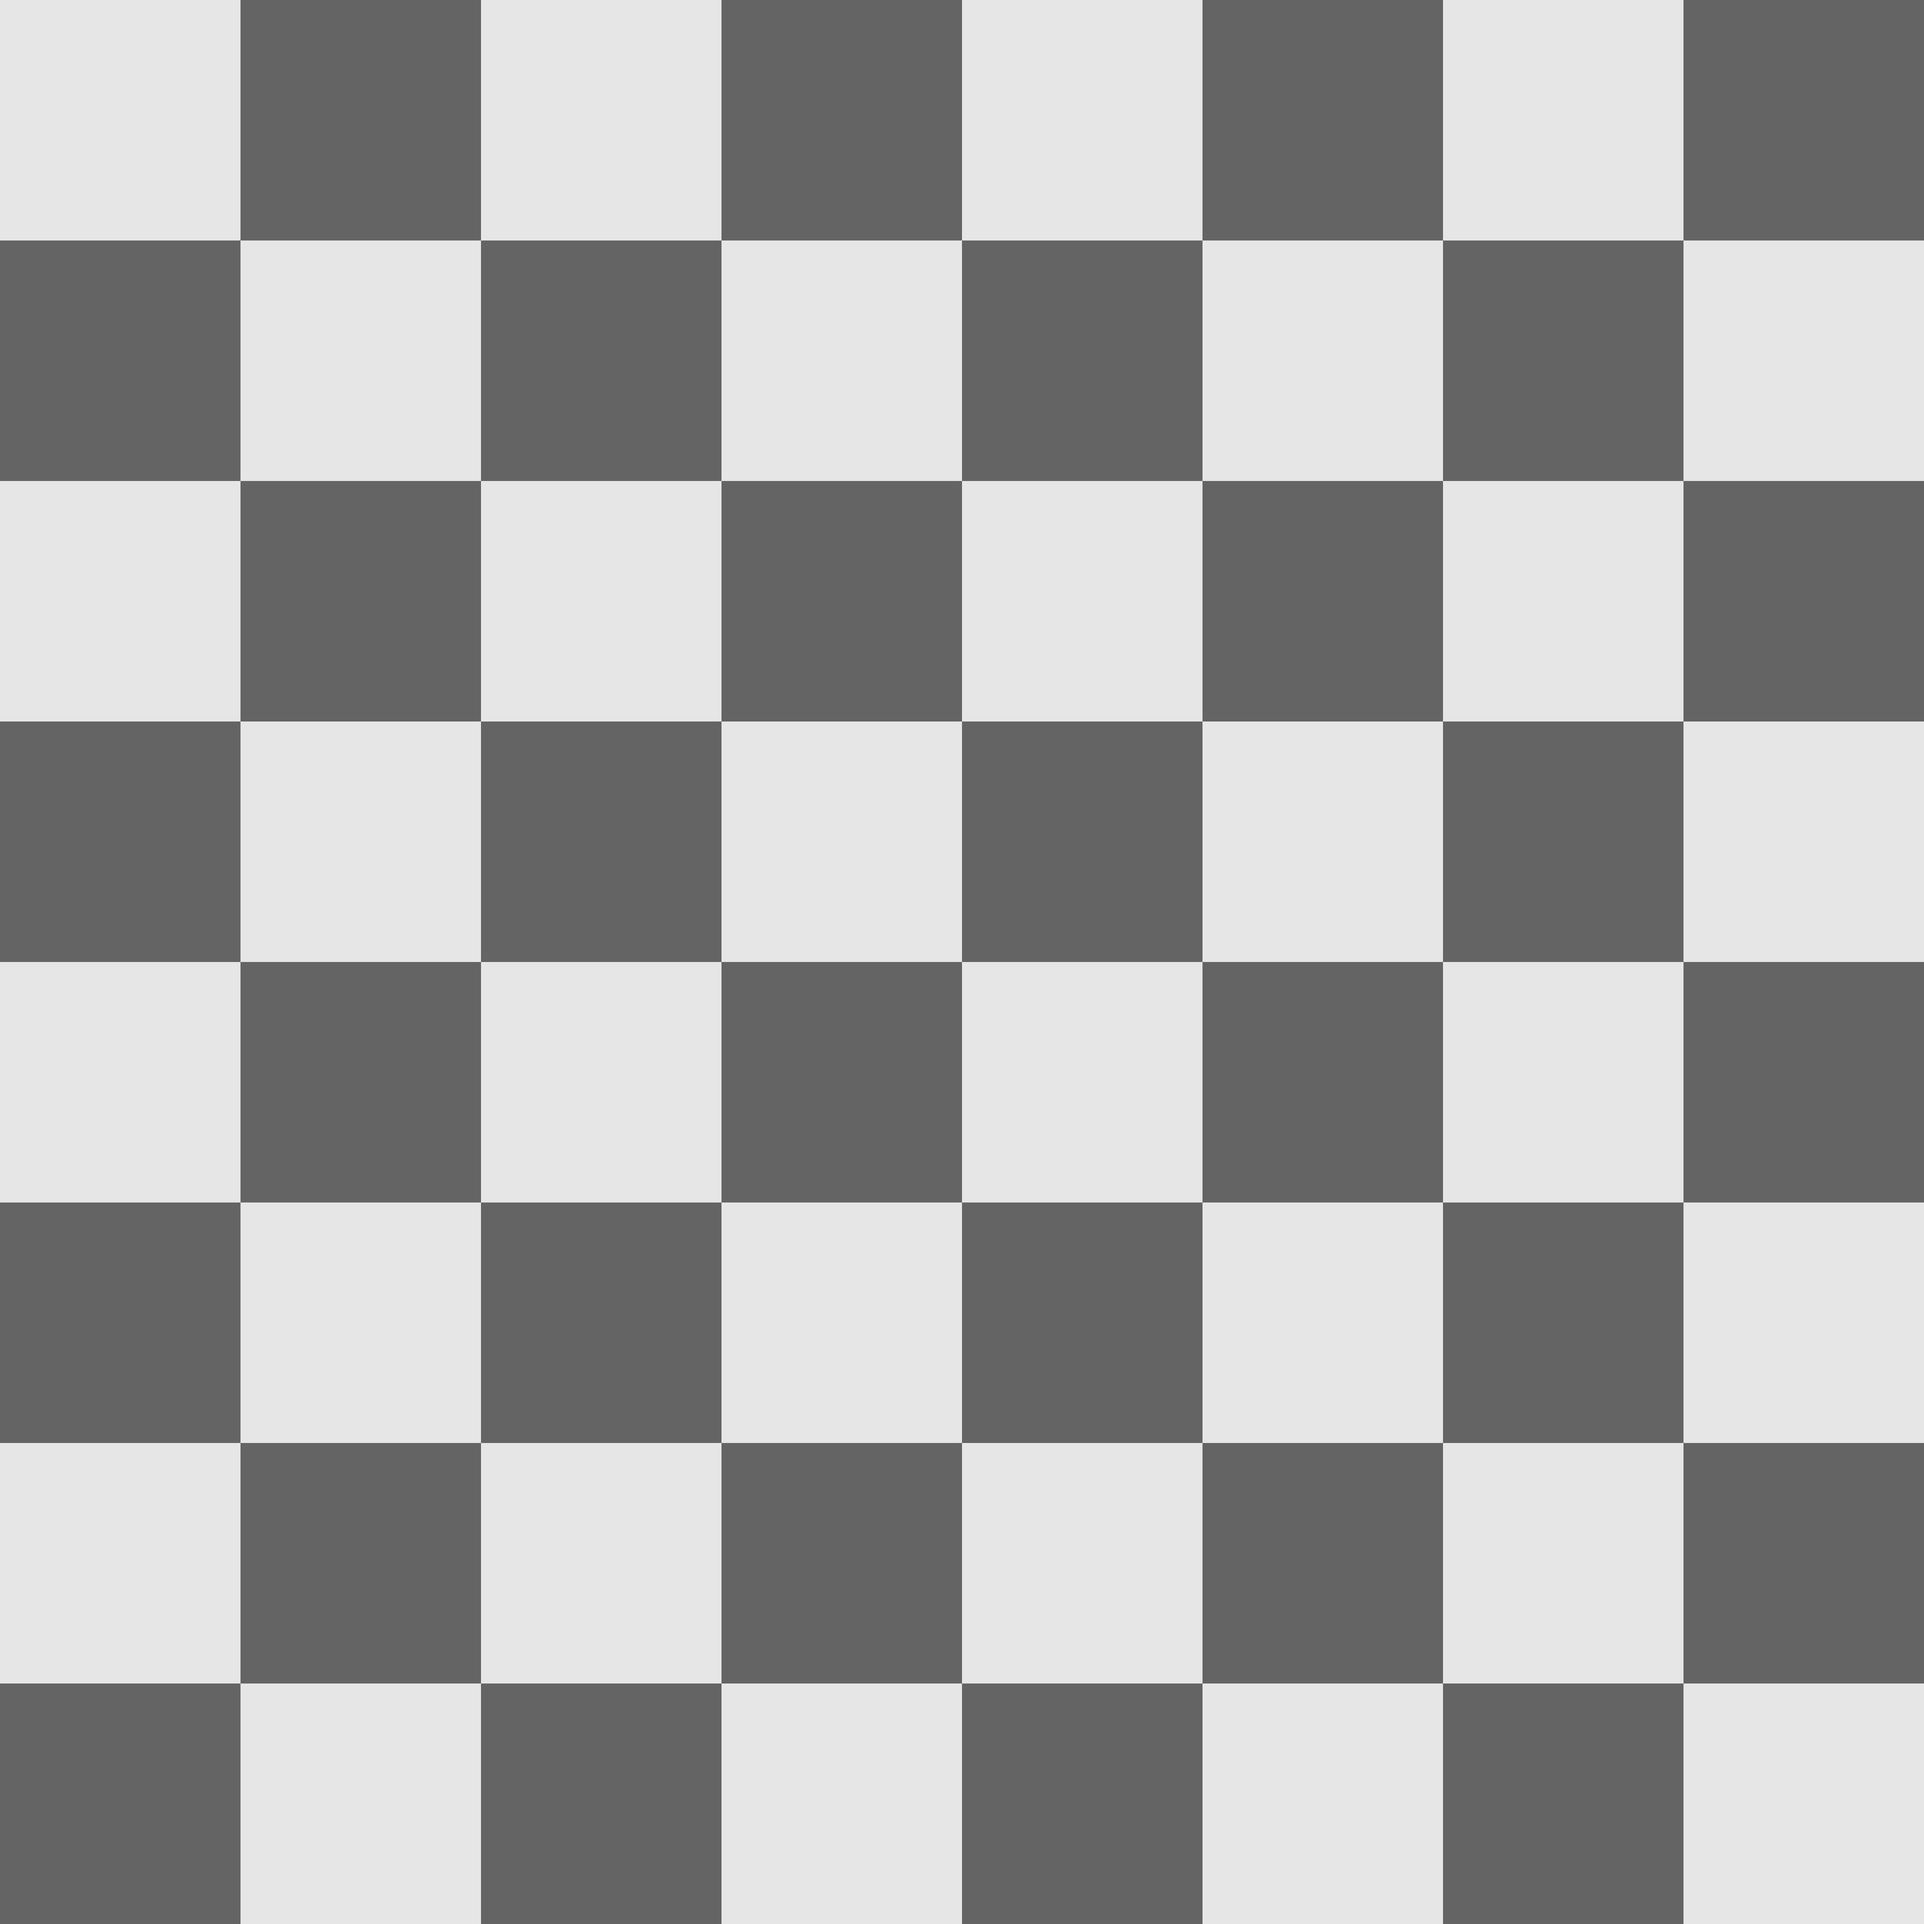
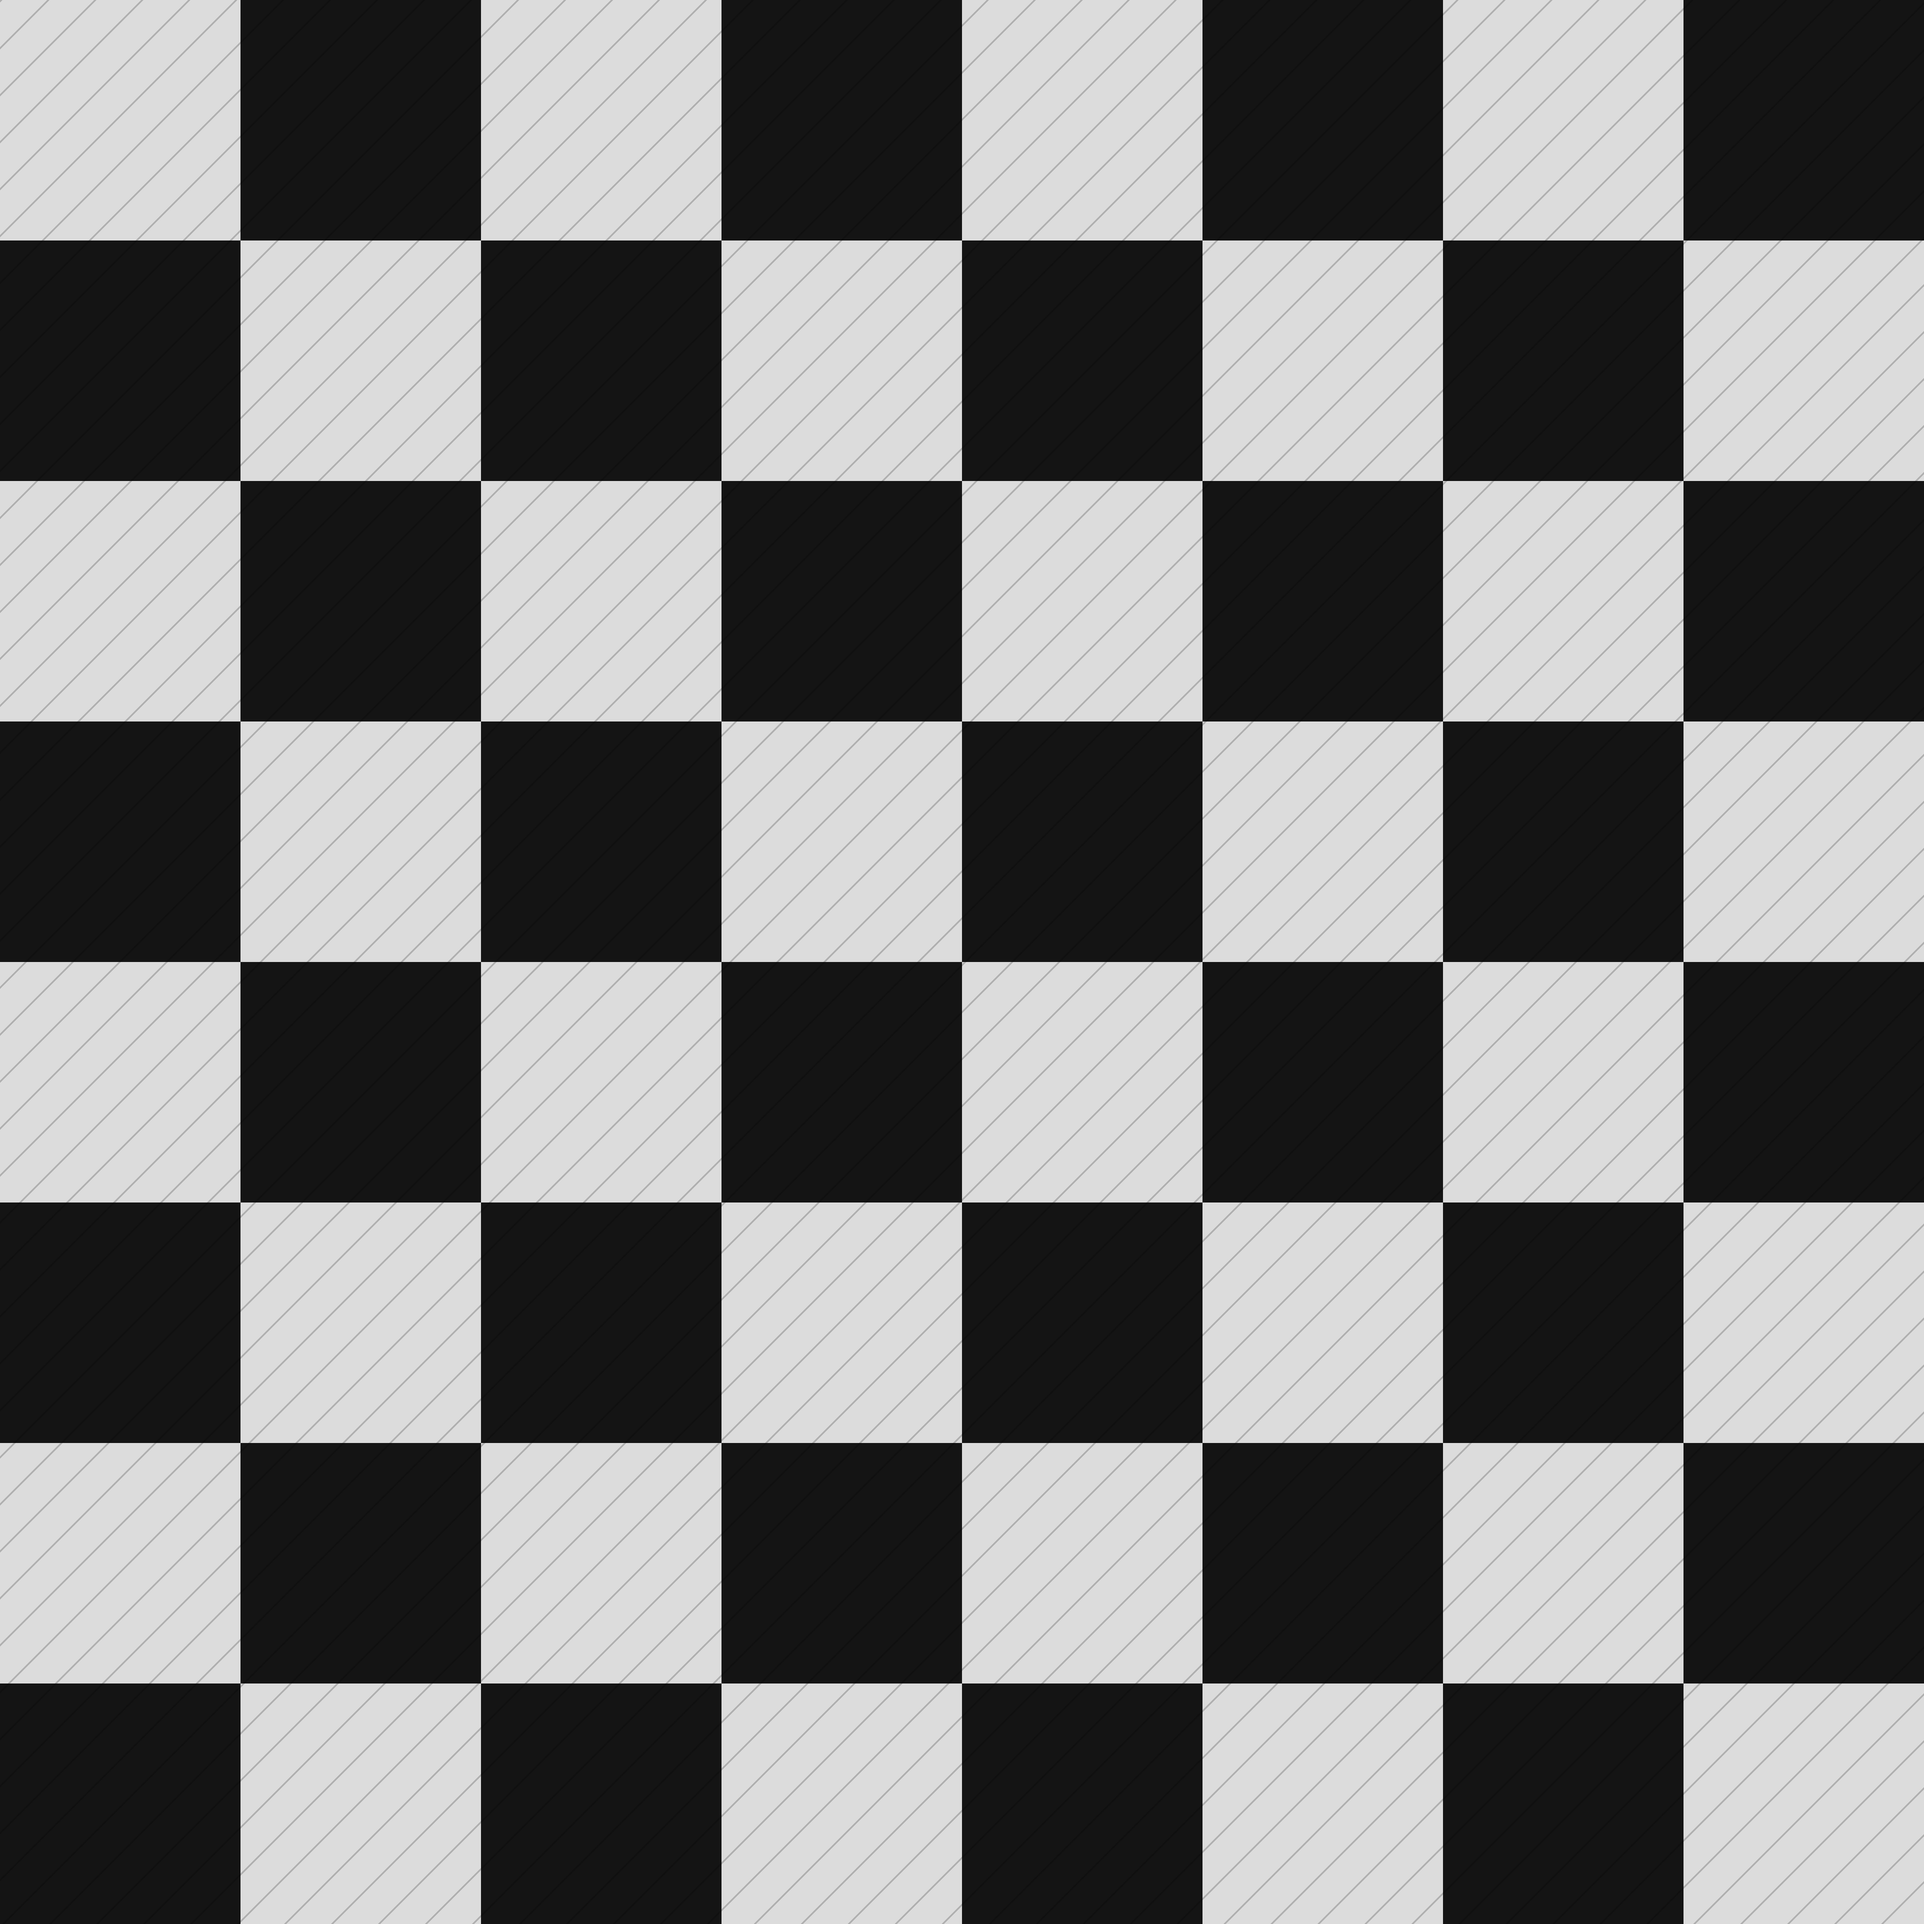
chnaged colour scheme

diff --git a/scripts/gen_assets.go b/scripts/gen_assets.go
@@ -44,6 +44,12 @@ func main() {
 		if style == "standard" {
 			light = color.RGBA{235, 236, 208, 255} // Classic Cream
 			dark = color.RGBA{119, 149, 86, 255}   // Classic Green
+		} else if style == "classic" {
+			light = color.RGBA{240, 217, 181, 255} // Wood Light
+			dark = color.RGBA{181, 136, 99, 255}   // Wood Dark
+		} else if style == "modern" {
+			light = color.RGBA{220, 220, 220, 255} // Off-white
+			dark = color.RGBA{20, 20, 20, 255}     // Near black
 		}
 
 		tileSize := 4096 / 8
@@ -55,6 +61,23 @@ func main() {
 				}
 				rect := image.Rect(x*tileSize, y*tileSize, (x+1)*tileSize, (y+1)*tileSize)
 				draw.Draw(boardImg, rect, &image.Uniform{c}, image.Point{}, draw.Src)
+			}
+		}
+
+		// Add diagonal lines for modern style
+		if style == "modern" {
+			for y := 0; y < 4096; y++ {
+				for x := 0; x < 4096; x++ {
+					// Diagonal pattern
+					if (x+y)%100 < 5 {
+						r, g, b, a := boardImg.At(x, y).RGBA()
+						// Darken the color slightly for the line
+						nr := uint8((r >> 8) * 8 / 10)
+						ng := uint8((g >> 8) * 8 / 10)
+						nb := uint8((b >> 8) * 8 / 10)
+						boardImg.Set(x, y, color.RGBA{nr, ng, nb, uint8(a >> 8)})
+					}
+				}
 			}
 		}
 		f, _ := os.Create(filepath.Join(baseDir, "board.png"))
